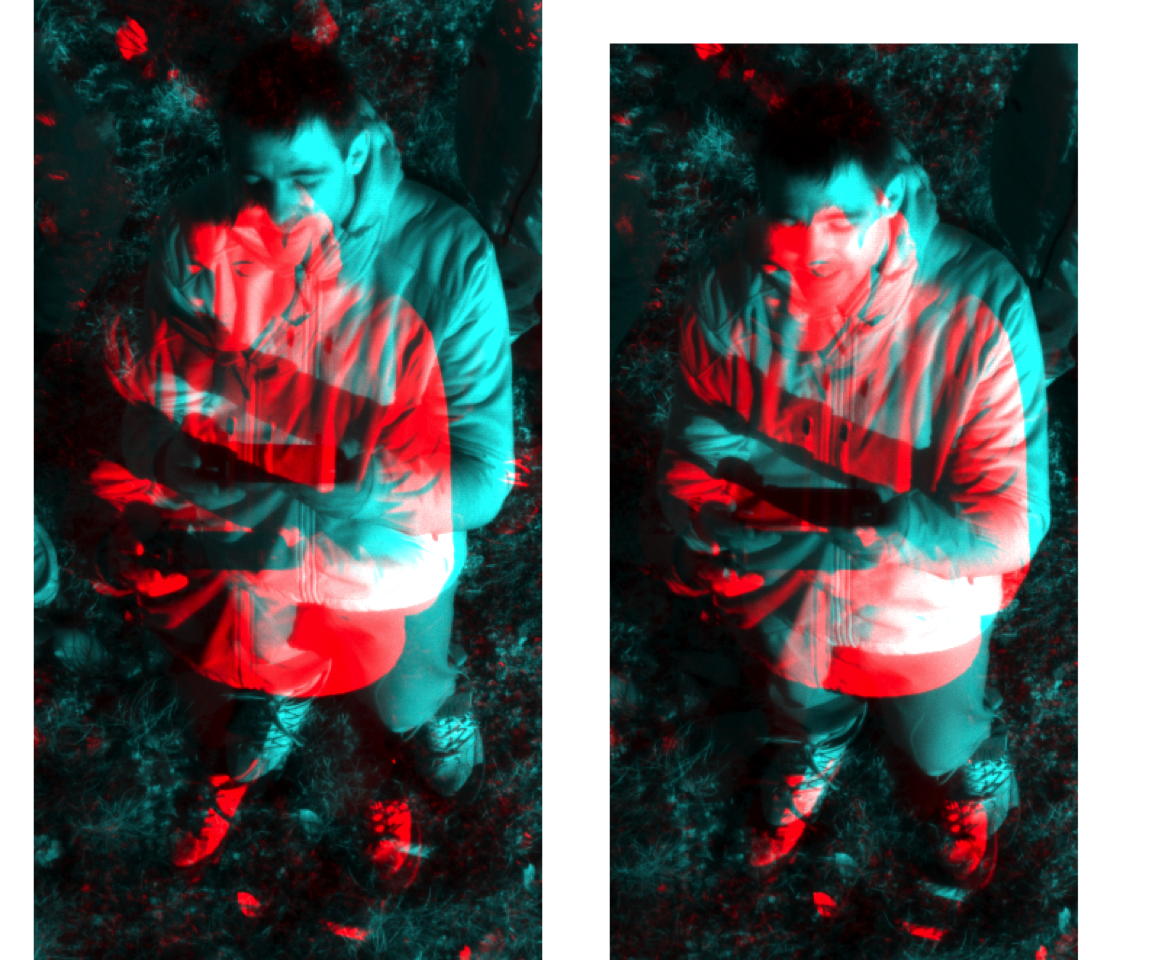
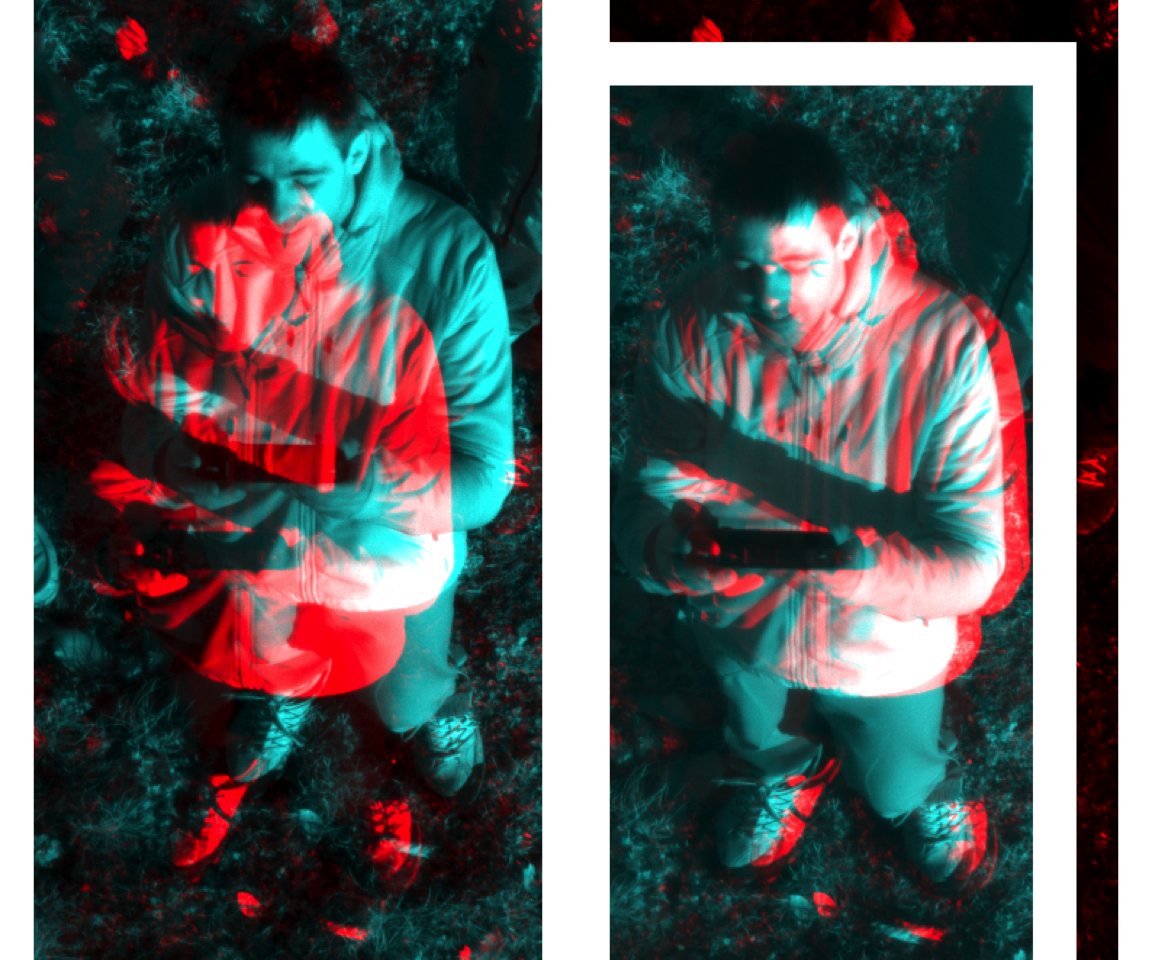
Add files via upload

diff --git a/Multispectral-Crop-Imagery-Coregistration.md b/Multispectral-Crop-Imagery-Coregistration.md
@@ -1,11 +1,14 @@
 Drone Multispectral Coregistration (Crop Dataset) - Complete Fusion
 ================
 Iris Nana Obeng
-2026-02-04
+2026-02-21
 
 ``` r
 library(terra)
 library(imager)
+
+knitr::opts_chunk$set(dev = "png")
+
 setwd("~/Desktop/drone ms coregistration")
 ```
 
@@ -17,7 +20,7 @@ ms <- rast(files)
 names(ms) <- c("Green", "Red", "NIR")
 ```
 
-## Shift Functions
+## Alignment Functions
 
 ``` r
 align_band_simple <- function(ref_mat, target_mat, max_shift = 20) {
@@ -85,14 +88,11 @@ get_edges <- function(img){
   edges <- sqrt(sobx^2 + soby^2)
   edges <- edges / max(edges)
 
-  edges[edges < 0.2] <- 0
-  edges[edges >= 0.2] <- 1
-
   t(as.matrix(edges))
 }
 ```
 
-## Edge-based Alignment
+## Edge-based Alignment (For NIR)
 
 ``` r
 align_band_edges <- function(ref_rast, target_rast, max_shift = 30){
@@ -130,6 +130,20 @@ align_band_edges <- function(ref_rast, target_rast, max_shift = 30){
 }
 ```
 
+## Prepare matrices
+
+``` r
+ref_red <- ms$Red
+green   <- ms$Green
+nir     <- ms$NIR
+
+ref_red_mat <- as.matrix(ref_red, wide=TRUE)
+green_mat   <- as.matrix(green, wide=TRUE)
+nir_mat     <- as.matrix(nir, wide=TRUE)
+
+aligned_rasters <- list(Red = ref_red)
+```
+
 ## Coregister Bands
 
 ``` r
@@ -141,7 +155,7 @@ ref_red_mat <- as.matrix(ref_red, wide=TRUE)
 green_mat   <- as.matrix(green, wide=TRUE)
 nir_mat     <- as.matrix(nir, wide=TRUE)
 
-# Green alignment
+# --- GREEN ALIGNMENT ---
 res_green <- align_band_simple(ref_red_mat, green_mat)
 
 green_aligned <- apply_shift(green_mat,
@@ -152,6 +166,8 @@ green_r <- rast(green_aligned)
 ext(green_r) <- ext(ref_red)
 crs(green_r) <- crs(ref_red)
 
+aligned_rasters$Green <- green_r
+
 cat(sprintf("✓ Green aligned (dx=%d, dy=%d, cor=%.3f)\n",
             res_green$dx, res_green$dy, res_green$cor))
 ```
@@ -159,7 +175,7 @@ cat(sprintf("✓ Green aligned (dx=%d, dy=%d, cor=%.3f)\n",
     ## ✓ Green aligned (dx=20, dy=-15, cor=0.877)
 
 ``` r
-# NIR alignment
+# --- NIR ALIGNMENT ---
 res_nir <- align_band_edges(ref_red, nir)
 
 nir_spatial <- apply_shift(nir_mat,
@@ -174,9 +190,9 @@ cat(sprintf("✓ NIR aligned (dx=%d, dy=%d, edge-cor=%.3f)\n",
             res_nir$dx, res_nir$dy, res_nir$cor))
 ```
 
-    ## ✓ NIR aligned (dx=-28, dy=30, edge-cor=0.029)
+    ## ✓ NIR aligned (dx=-30, dy=30, edge-cor=0.057)
 
-## Sub-pixel Refinement (Knit-Safe)
+## Sub-pixel Refinement
 
 ``` r
 cat("\n--- Refining to 0.1 pixel accuracy ---\n")
@@ -190,19 +206,19 @@ ref_mat <- as.matrix(ref_red, wide=TRUE)
 nir_mat <- as.matrix(nir_spatial_r, wide=TRUE)
 
 best_cor <- res_nir$cor
-best_dx_sub <- 0
-best_dy_sub <- 0
-# --- micro refinement around best shift ---
+best_dx_sub <- res_nir$dx
+best_dy_sub <- res_nir$dy
+
 for (dx in seq(best_dx_sub-0.3, best_dx_sub+0.3, by=0.05)) {
   for (dy in seq(best_dy_sub-0.3, best_dy_sub+0.3, by=0.05)) {
-
+    
     nir_shifted <- imshift(as.cimg(t(nir_mat)), dx, dy)
     nir_shifted <- t(as.matrix(nir_shifted))
-
+    
     overlap <- !is.na(ref_mat) & !is.na(nir_shifted)
     if (sum(overlap) > 1000) {
       cc <- cor(ref_mat[overlap], nir_shifted[overlap])
-
+      
       if (!is.na(cc) && cc > best_cor) {
         best_cor <- cc
         best_dx_sub <- dx
@@ -212,45 +228,40 @@ for (dx in seq(best_dx_sub-0.3, best_dx_sub+0.3, by=0.05)) {
   }
 }
 
+nir_final <- imshift(as.cimg(t(nir_mat)),
+                     best_dx_sub,
+                     best_dy_sub)
 
-if (abs(best_dx_sub) > 0.05 || abs(best_dy_sub) > 0.05) {
+nir_final <- t(as.matrix(nir_final))
+nir_r <- rast(nir_final)
 
-  cat(sprintf("✓ Subpixel refinement: dx=%.2f dy=%.2f cor=%.3f\n",
-              best_dx_sub, best_dy_sub, best_cor))
-
-  nir_final <- imshift(as.cimg(t(nir_mat)),
-                       best_dx_sub,
-                       best_dy_sub)
-
-  nir_final <- t(as.matrix(nir_final))
-  nir_r <- rast(nir_final)
-
-} else {
-
-  cat("No subpixel improvement found\n")
-  nir_r <- nir_spatial_r
-}
-```
-
-    ## ✓ Subpixel refinement: dx=-0.30 dy=-0.30 cor=0.505
-
-``` r
 ext(nir_r) <- ext(ref_red)
 crs(nir_r) <- crs(ref_red)
+
+aligned_rasters$NIR <- nir_r
+
+cat(sprintf("✓ NIR refined (dx=%.2f, dy=%.2f, cor=%.3f)\n",
+            best_dx_sub, best_dy_sub, best_cor))
 ```
 
-## RGB Visualization
+    ## ✓ NIR refined (dx=-29.95, dy=29.40, cor=0.658)
+
+## RGB STACKS FOR PLOTTING
 
 ``` r
 rg_before <- c(ms$Red, ms$Green, ms$Green)
-rg_after  <- c(ref_red, green_r, green_r)
+rg_after  <- c(ref_red, green_r, green_r) 
 
 rn_before <- c(ms$Red, ms$NIR, ms$NIR)
-rn_after  <- c(ref_red, nir_r, nir_r)
+rn_after  <- c(ref_red, nir_r, nir_r)      
 
 rgb_before <- c(ms$Green, ms$Red, ms$NIR)
-rgb_after  <- c(green_r, ref_red, nir_r)
+rgb_after  <- c(green_r, ref_red, nir_r)   
+
+cat("✓ RGB stacks prepared\n")
 ```
+
+    ## ✓ RGB stacks prepared
 
 ## Red + Green
 
